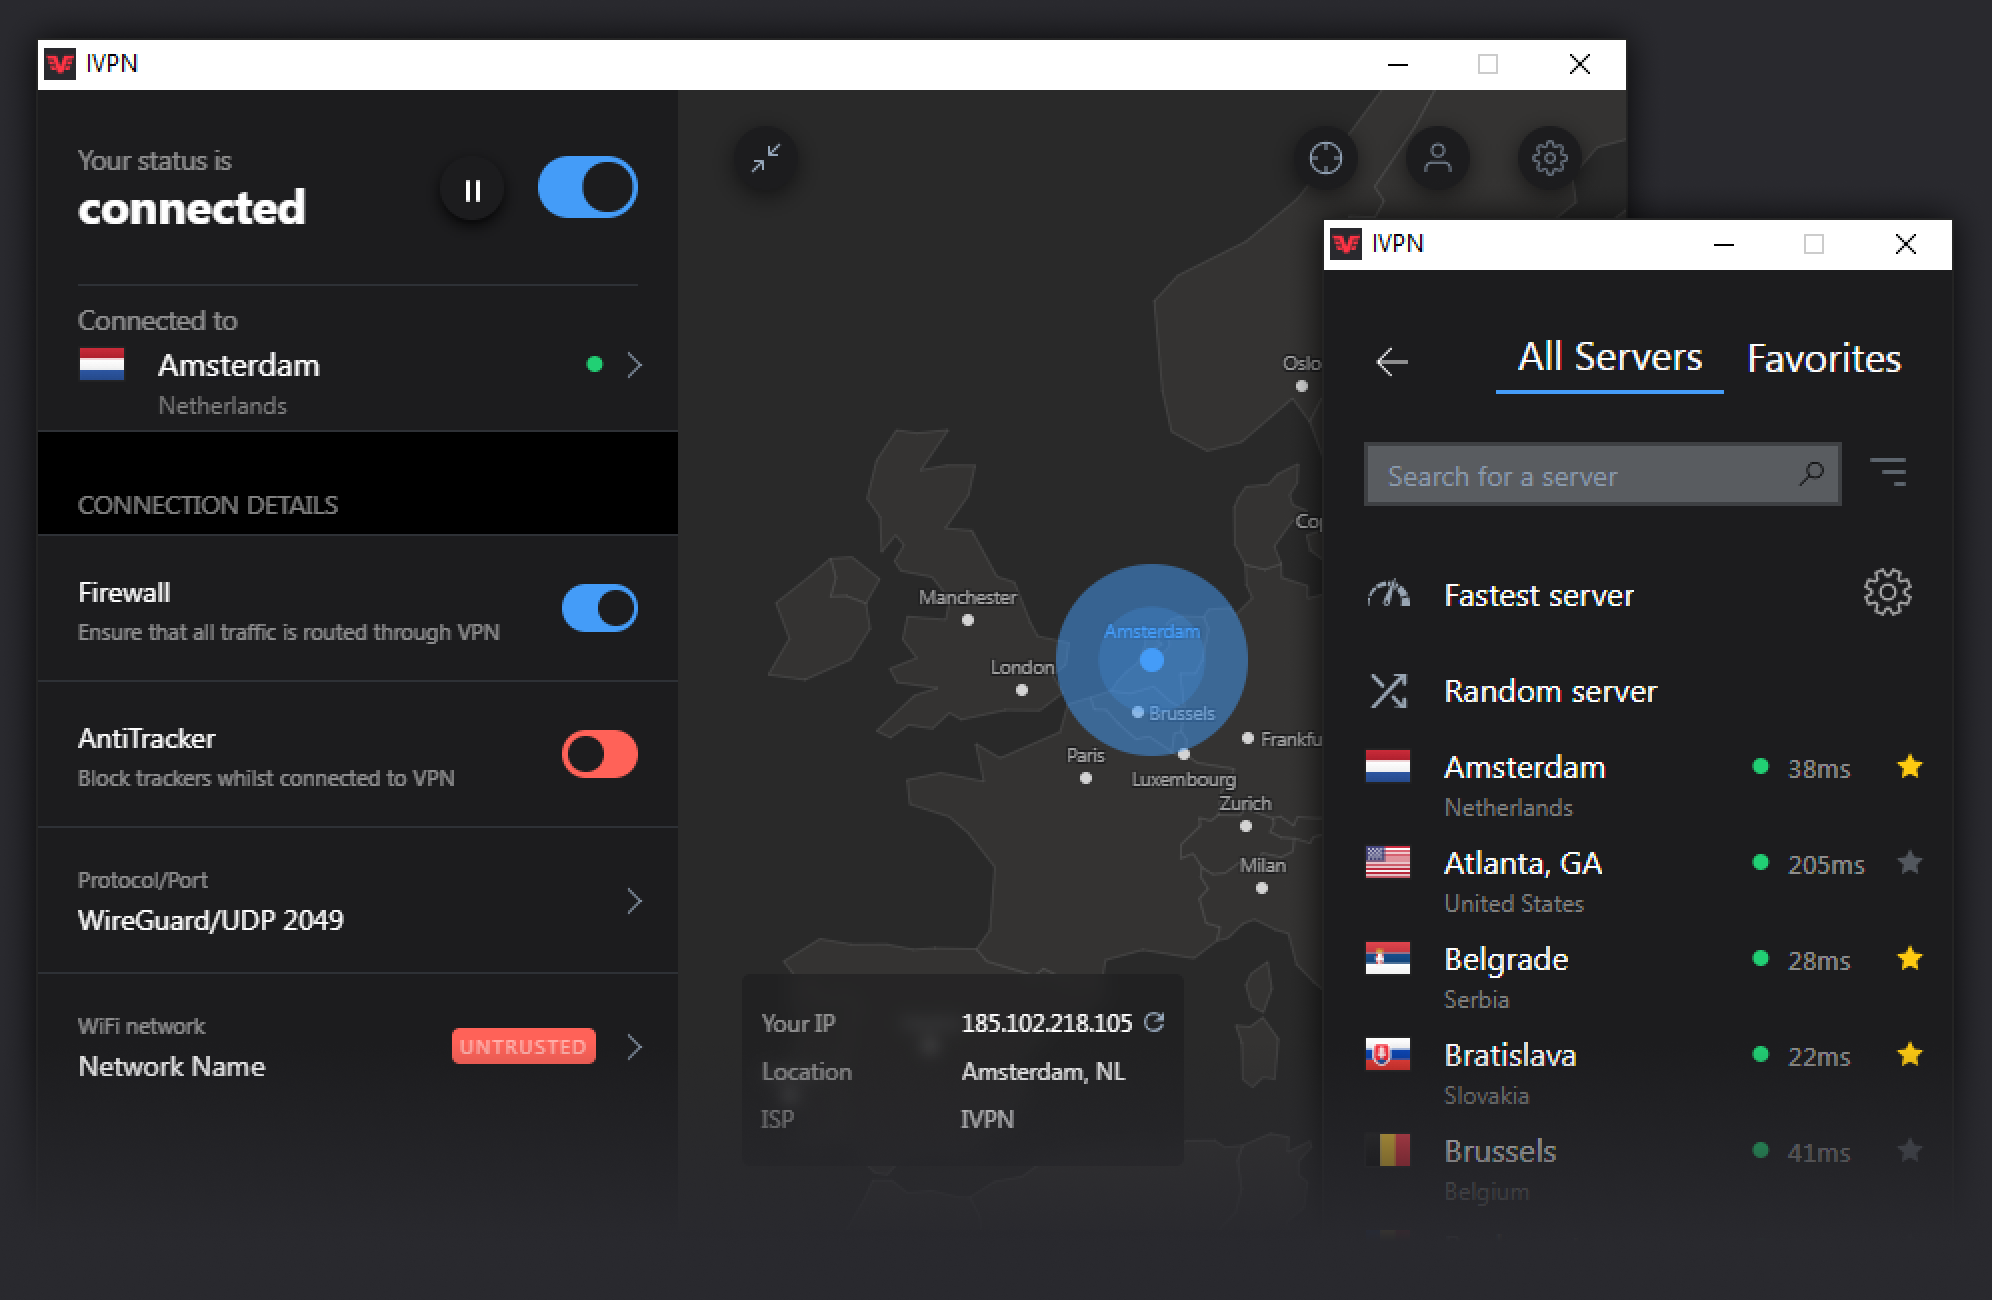
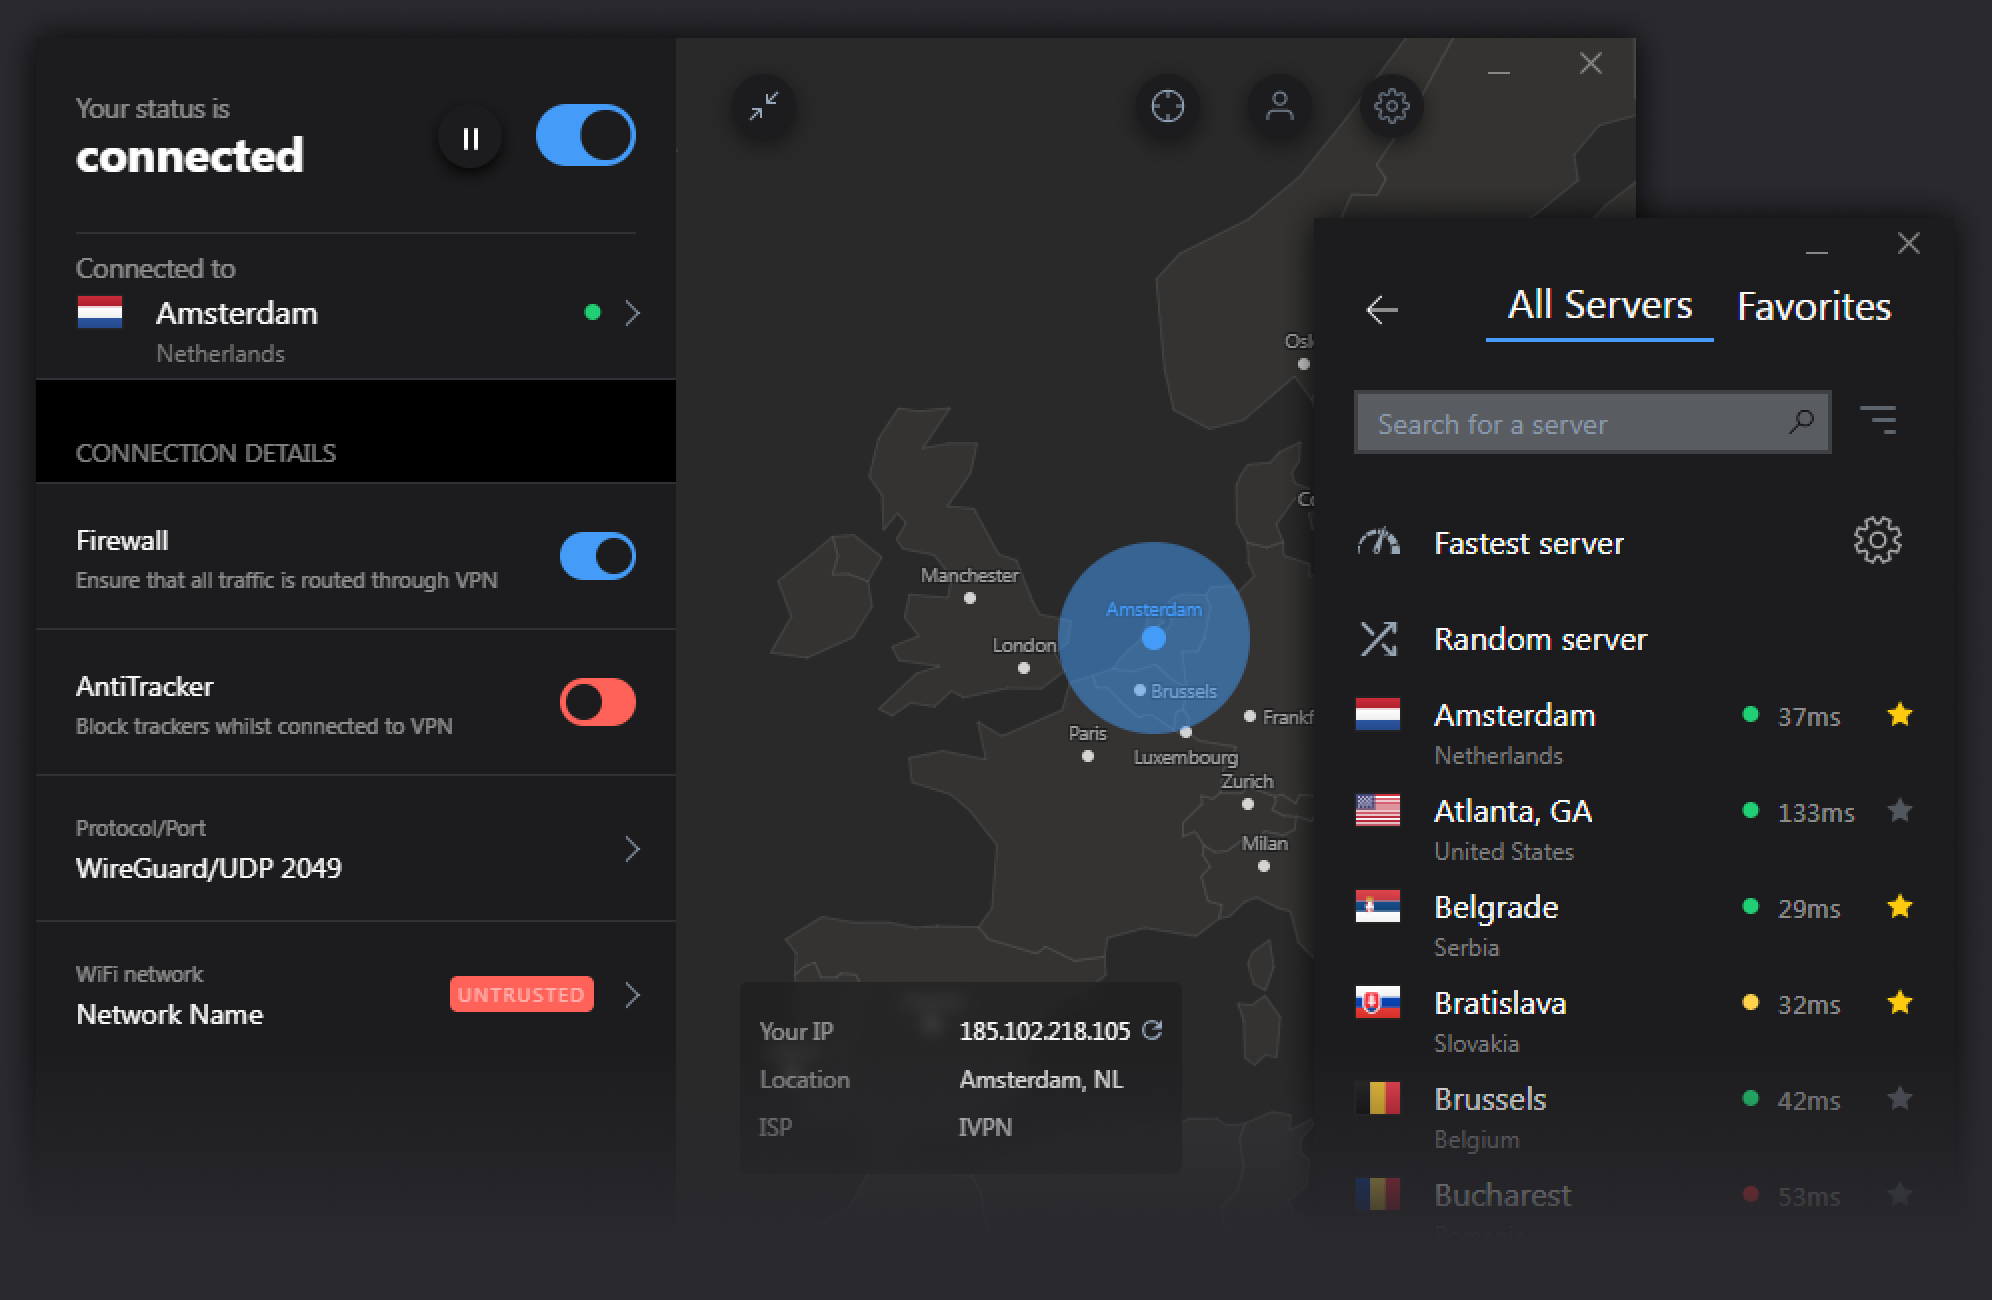
Update screenshots in apps-windows.md

diff --git a/src/content/pages/apps-windows.md b/src/content/pages/apps-windows.md
@@ -6,7 +6,7 @@ subtitle: For Windows 8 / 10
 url: /apps-windows/
 platform: windows
 layout: apps
-image: apps/windows-app
+image: apps/windows-app-3.3.7
 releases: [{
     cta: Download,
     download: https://repo.ivpn.net/windows/bin/IVPN-Client-v3.3.7.exe,
